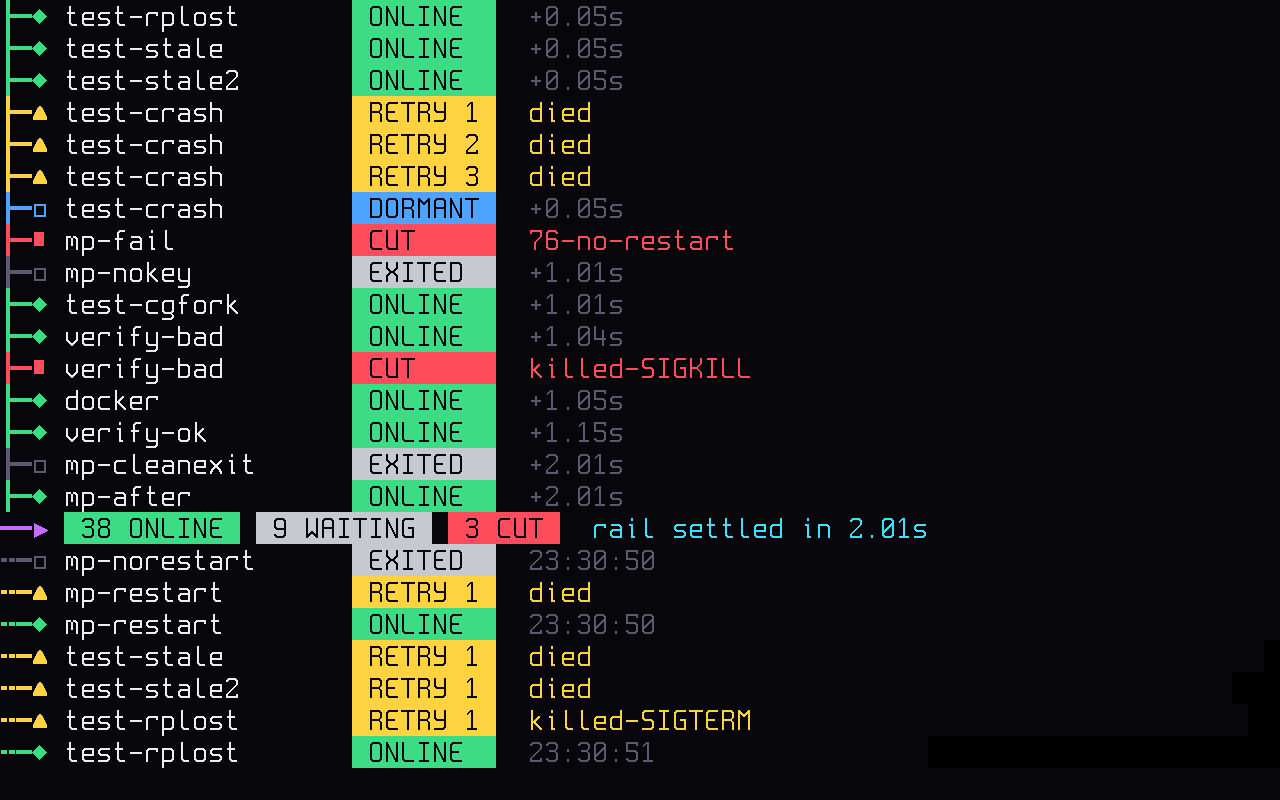
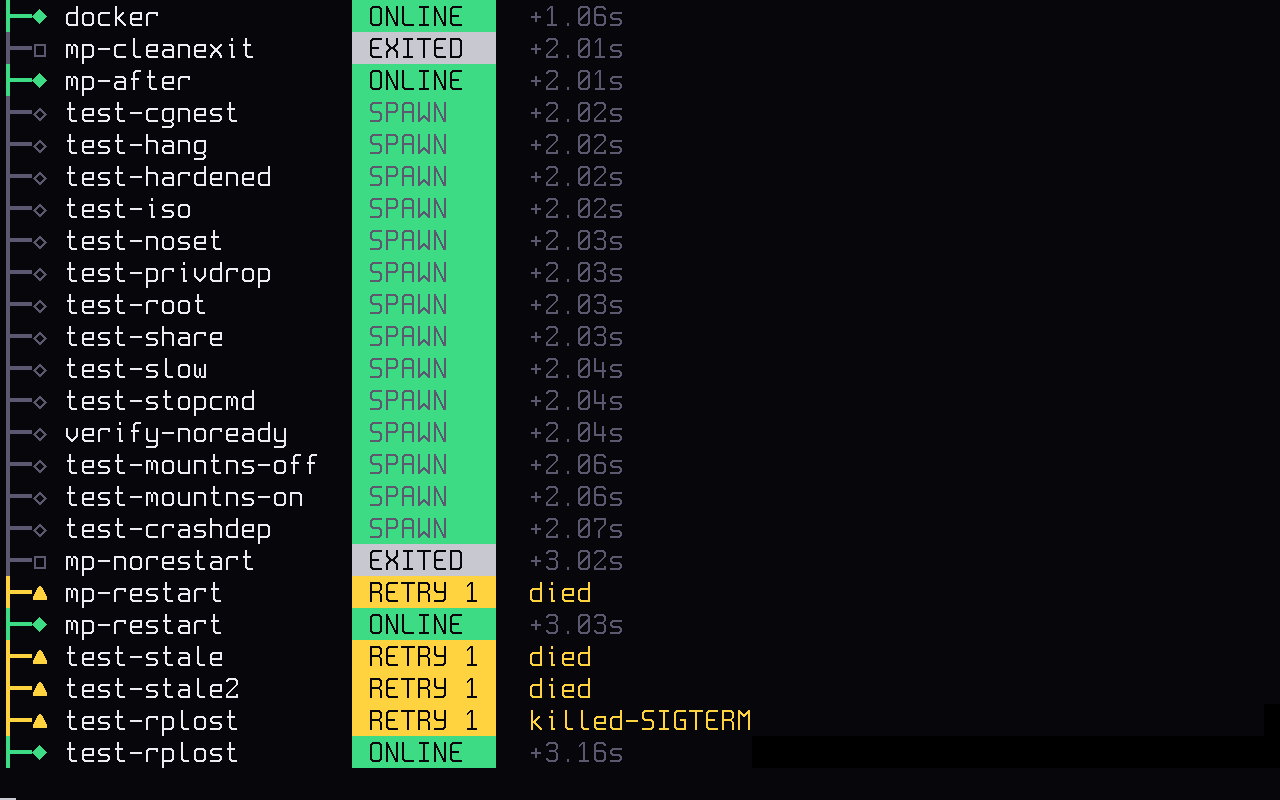
rail: FULL_TRUST is starting, not ONLINE; causes vs outcomes (review fixes)
Whole-branch review:
- C1: the engine sets FULL_TRUST at spawn and leaves it on readiness, so the
  rail counted not-yet-ready services ONLINE and could print 'settled' while
  daemons waited for READY=1 (and never the SPAWN or 120 s lines).
  rail_is_starting() now owns the predicate; FULL_TRUST is not a ready state.
- I1/I2: pid_file-missing and start-timeout are causes logged before the
  restart decision: they feed the reason of the RETRY or 76-* CUT that
  follows; timeout-recovery is quiet. One line per failure, no false CUT.
- I3: a spawn clears the stored cause, so an old killed-SIGTERM can't name a
  later crash.
- I4: a readiness probe that fails at promote (EXCISED, failed) shows CUT
  probe-failed instead of nothing.

diff --git a/rail.c b/rail.c
@@ -236,7 +236,7 @@ static const struct { const char *key; int kind; rail_chip_t chip; const char *w
     { "path-failed",         K_CHIP,  CHIP_FAILED, "" },
     { "path-fire",           K_CHIP,  CHIP_TIMER, "" },
     { "path-trigger-limit",  K_CHIP,  CHIP_CUT, "" },
-    { "pid_file-missing",    K_DIED,  CHIP_NONE, "with a restart coming, the retry line carries it; else CUT" },
+    { "pid_file-missing",    K_QUIET, CHIP_NONE, "a cause, logged before the restart decision: the retry or 76-* after it shows it" },
     { "pid_file-no-cgroup",  K_CHIP,  CHIP_CUT, "" },
     { "promote",             K_READY, CHIP_NONE, "" },
     { "readiness-lost",      K_QUIET, CHIP_NONE, "a cause: the retry or 76-* excise that follows shows it as the reason" },
@@ -255,7 +255,7 @@ static const struct { const char *key; int kind; rail_chip_t chip; const char *w
     { "spawn",               K_SPAWN, CHIP_NONE, "" },
     { "spawn-fail",          K_CHIP,  CHIP_CUT, "" },
     { "standby",             K_QUIET, CHIP_NONE, "stopped by design; counted as WAITING" },
-    { "start-timeout",       K_CHIP,  CHIP_CUT, "" },
+    { "start-timeout",       K_QUIET, CHIP_NONE, "a cause: the retry or 76-excised that follows shows it as the reason" },
     { "stop-cmd",            K_QUIET, CHIP_NONE, "stop-cmd-done or a failure follows" },
     { "stop-cmd-done",       K_QUIET, CHIP_NONE, "a clean stop command" },
     { "stop-cmd-failed",     K_CHIP,  CHIP_FAILED, "" },
@@ -265,7 +265,7 @@ static const struct { const char *key; int kind; rail_chip_t chip; const char *w
     { "stop-post",           K_QUIET, CHIP_NONE, "the post-stop command started" },
     { "thaw",                K_QUIET, CHIP_NONE, "pressure handling, shown on schema-board" },
     { "thaw-sig",            K_QUIET, CHIP_NONE, "pressure handling, shown on schema-board" },
-    { "timeout-recovery",    K_CHIP,  CHIP_RETRY, "" },
+    { "timeout-recovery",    K_QUIET, CHIP_NONE, "the retry that follows is the one RETRY line for this start timeout" },
     { "timer-catchup",       K_CHIP,  CHIP_TIMER, "" },
     { "timer-done",          K_QUIET, CHIP_NONE, "the timer run finished cleanly" },
     { "timer-failed",        K_CHIP,  CHIP_FAILED, "" },
@@ -299,8 +299,13 @@ const char *rail_event_why(const char *event) {
     return i < 0 ? "" : EV[i].why;
 }
 
+/* FULL_TRUST is not ready: the engine sets it at spawn and leaves it on readiness */
 static int is_ready_state(uint8_t st) {
-    return st == STATE_FUNDAMENTAL || st == STATE_SETTLED || st == STATE_FULL_TRUST || st == STATE_PERFECT;
+    return st == STATE_FUNDAMENTAL || st == STATE_SETTLED || st == STATE_PERFECT;
+}
+
+int rail_is_starting(uint8_t state, int pid, int held_on_socket) {
+    return pid > 0 && (state == STATE_FULL_TRUST || state == STATE_NEW_PROCESS) && !held_on_socket;
 }
 
 rail_chip_t rail_map_event(const char *event, const rail_svc_t *s) {
@@ -310,7 +315,10 @@ rail_chip_t rail_map_event(const char *event, const rail_svc_t *s) {
     case K_CHIP:  return EV[i].chip;
     case K_DIED:  return s->restart_pending ? CHIP_NONE : CHIP_CUT;
     case K_END:   return s->failed ? CHIP_CUT : CHIP_EXITED;
-    case K_READY: return s->state == STATE_PERFECT ? CHIP_PERFECT : is_ready_state(s->state) ? CHIP_ONLINE : CHIP_NONE;
+    case K_READY:
+        /* readiness that failed its probe lands in EXCISED and still logs promote */
+        if (s->failed) return CHIP_CUT;
+        return s->state == STATE_PERFECT ? CHIP_PERFECT : is_ready_state(s->state) ? CHIP_ONLINE : CHIP_NONE;
     case K_SPAWN: return CHIP_SPAWN;
     default:      return CHIP_NONE;
     }
@@ -374,7 +382,8 @@ void rail_event(const rail_svc_t *s, int idx, const char *event) {
     if (i < 0 || !ok) return;
     /* the cause of a death, for the RETRY line that follows it */
     /* a specific cause (signal, lost readiness) beats the generic died that follows it */
-    if (!strncmp(event, "killed-SIG", 10) || !strcmp(event, "readiness-lost"))
+    if (!strncmp(event, "killed-SIG", 10) || !strcmp(event, "readiness-lost") || !strcmp(event, "start-timeout") ||
+        !strcmp(event, "pid_file-missing"))
         snprintf(R.s[idx].why, sizeof R.s[idx].why, "%.*s", (int)strcspn(event, " "), event);
     else if (EV[i].kind == K_DIED && !R.s[idx].why[0])
         snprintf(R.s[idx].why, sizeof R.s[idx].why, "%s", event);
@@ -382,10 +391,13 @@ void rail_event(const rail_svc_t *s, int idx, const char *event) {
         R.s[idx].spawn_at = R.last_event;
         R.s[idx].spawn_pending = 1;
         R.s[idx].online = R.s[idx].perfect = 0;
+        R.s[idx].why[0] = '\0';   /* a cause from before this start is not this one's */
         return;
     }
     if (chip == CHIP_NONE) return;
-    if (EV[i].kind == K_READY) {
+    if (EV[i].kind == K_READY && chip == CHIP_CUT)
+        snprintf(R.s[idx].why, sizeof R.s[idx].why, "probe-failed");
+    else if (EV[i].kind == K_READY) {
         if (chip == CHIP_ONLINE && R.s[idx].online) return;
         if (chip == CHIP_PERFECT && R.s[idx].perfect) return;
         R.s[idx].online = 1;

diff --git a/tests/test_rail_state.c b/tests/test_rail_state.c
@@ -55,7 +55,7 @@ static void map_events(void) {
     assert(rail_map_event("killed-SIGSEGV-core", &s) == CHIP_NONE);
     assert(rail_map_event("card-2/3", &s) == CHIP_FAILED);
     assert(rail_map_event("condition-skip path_exists:/x", &s) == CHIP_NONE);
-    assert(rail_map_event("start-timeout", &s) == CHIP_CUT);
+    assert(rail_map_event("start-timeout", &s) == CHIP_NONE);   /* a cause; the 76-excised after it is the CUT */
     assert(rail_map_event("reload-fail", &s) == CHIP_FAILED);
     assert(rail_map_event("timer-fire", &s) == CHIP_TIMER);
     assert(rail_map_event("path-fire IN_CREATE:/x", &s) == CHIP_TIMER);
@@ -88,8 +88,10 @@ static void spawn_delay(void) {
     reset(0);
     s = S("doomed", STATE_NEW_PROCESS); s.pid = 12; s.starting = 1;
     rail_event(&s, 0, "spawn");
-    now = 1500; s.state = STATE_EXCISED; s.failed = 1; s.starting = 0;
+    now = 1500;
     rail_event(&s, 0, "start-timeout");
+    s.state = STATE_EXCISED; s.failed = 1; s.starting = 0;
+    rail_event(&s, 0, "76-excised");
     now = 4000; rail_tick(&s, 1, now);
     if (count("SPAWN") || count(" CUT ") != 1) FAIL("cut before 2 s: want CUT only");
 }
@@ -271,8 +273,75 @@ static void every_event_classified(void) {
     if (n < 80) FAIL("only %d events listed", n);
 }
 
+/* review C1: FULL_TRUST is "spawned, waiting for readiness" in this engine */
+static void full_trust_is_starting(void) {
+    assert(rail_is_starting(STATE_FULL_TRUST, 42, 0) == 1);
+    assert(rail_is_starting(STATE_NEW_PROCESS, 42, 0) == 1);
+    assert(rail_is_starting(STATE_FULL_TRUST, 0, 0) == 0);
+    assert(rail_is_starting(STATE_NEW_PROCESS, 42, 1) == 0);   /* held on its socket */
+    assert(rail_is_starting(STATE_FUNDAMENTAL, 42, 0) == 0);
+    rail_svc_t v[1] = { S("slowd", STATE_FULL_TRUST) };
+    rail_counts_t c;
+    rail_counts(v, 1, &c);
+    if (c.online) FAIL("FULL_TRUST counted ONLINE");
+    reset(0);
+    v[0].pid = 7; v[0].starting = rail_is_starting(v[0].state, v[0].pid, 0);
+    rail_event(&v[0], 0, "spawn");
+    rail_arm_settle();
+    assert(rail_map_event("notify-ready", &v[0]) == CHIP_NONE);
+    now = 5000; rail_tick(v, 1, now);
+    if (count("rail settled")) FAIL("settled while a service waits for readiness");
+    if (count("SPAWN") != 1) FAIL("slow start shows no SPAWN");
+    now = 120000; rail_tick(v, 1, now);
+    if (count("still starting after 120s") != 1) FAIL("120 s line never fires for a never-ready service");
+}
+
+/* review I1/I2/I3/I4 */
+static void causes_and_outcomes(void) {
+    rail_svc_t s = S("pf", STATE_FULL_TRUST);
+    reset(0);
+    rail_event(&s, 0, "pid_file-missing");
+    s.state = STATE_RECOVERY; s.restart_pending = 1;
+    s.state = STATE_NEW_PROCESS; s.restart_count = 1;
+    rail_event(&s, 0, "retry");
+    if (count(" CUT ") || !count("RETRY 1") || !count("pid_file-missing")) FAIL("I1: pid_file-missing is a cause");
+
+    reset(0);
+    s = S("st", STATE_FULL_TRUST);
+    rail_event(&s, 0, "start-timeout");
+    s.state = STATE_RECOVERY;
+    rail_event(&s, 0, "timeout-recovery");
+    s.state = STATE_NEW_PROCESS; s.restart_count = 1;
+    rail_event(&s, 0, "retry");
+    if (count(" CUT ") || count("RETRY") != 1 || !count("start-timeout")) FAIL("I2: start-timeout + restart = one RETRY");
+    reset(0);
+    s = S("st2", STATE_FULL_TRUST);
+    rail_event(&s, 0, "start-timeout");
+    s.state = STATE_EXCISED; s.failed = 1;
+    rail_event(&s, 0, "76-excised");
+    if (count(" CUT ") != 1 || !count("start-timeout")) FAIL("I2: start-timeout + excise = one CUT with the cause");
+
+    reset(0);
+    s = S("stale", STATE_FUNDAMENTAL);
+    rail_event(&s, 0, "killed-SIGTERM");
+    s.state = STATE_FULL_TRUST;
+    rail_event(&s, 0, "spawn");
+    s.state = STATE_RECOVERY; s.restart_pending = 1;
+    rail_event(&s, 0, "died");
+    s.state = STATE_NEW_PROCESS; s.restart_count = 1;
+    rail_event(&s, 0, "retry");
+    if (count("killed-SIGTERM") || !count("died")) FAIL("I3: a stale cause from before the last spawn");
+
+    reset(0);
+    s = S("probe", STATE_EXCISED); s.failed = 1;
+    rail_event(&s, 0, "promote");
+    if (count(" CUT ") != 1 || !count("probe-failed")) FAIL("I4: a failed probe at promote shows nothing");
+}
+
 int main(void) {
     every_event_classified();
+    full_trust_is_starting();
+    causes_and_outcomes();
     setenv("TZ", "UTC", 1);
     tzset();
     map_events();

diff --git a/init.c b/init.c
@@ -1388,7 +1388,7 @@ static void rail_fill(rail_svc_t *r, const service_t *s) {
     r->state = s->inst.state;
     r->pid = s->child_pid;
     r->failed = svc_failed(s);
-    r->starting = s->child_pid > 0 && s->inst.state == STATE_NEW_PROCESS && !svc_held_on_socket(s);
+    r->starting = rail_is_starting(s->inst.state, s->child_pid, svc_held_on_socket(s));
     r->restart_pending = s->inst.state == STATE_RECOVERY && !(s->flags & SVC_NO_RESTART);
     r->restart_count = s->restart_count;
 }

diff --git a/rail.h b/rail.h
@@ -67,5 +67,7 @@ rail_chip_t rail_map_event(const char *event, const rail_svc_t *s);
 int rail_event_known(const char *event);
 const char *rail_event_why(const char *event);
 void rail_counts(const rail_svc_t *svcs, int n, rail_counts_t *c);
+/* spawned and not ready yet (FULL_TRUST is the engine's "waiting for readiness") */
+int rail_is_starting(uint8_t state, int pid, int held_on_socket);
 
 #endif
